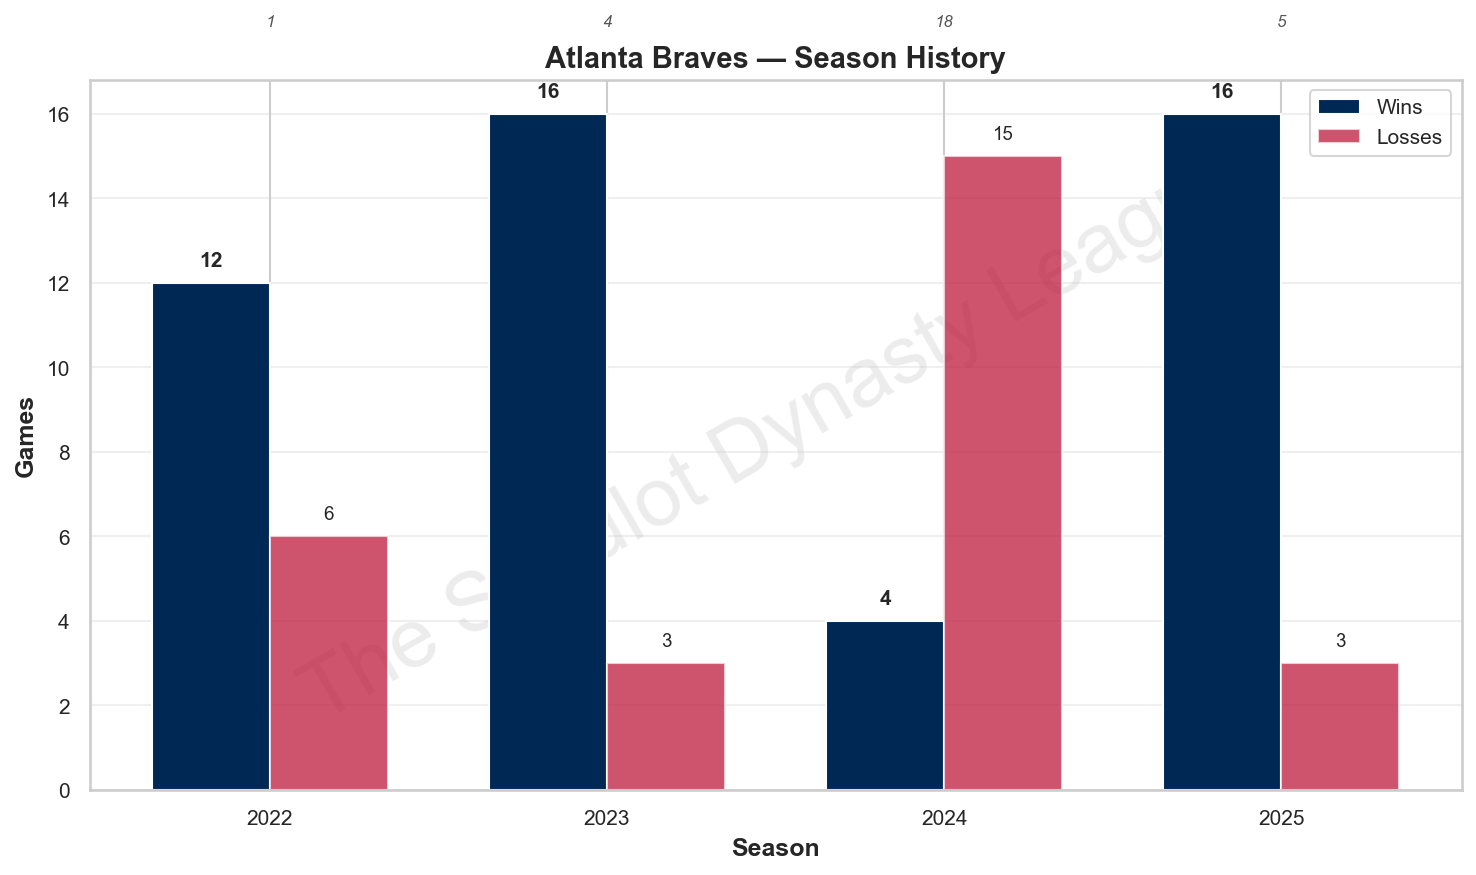
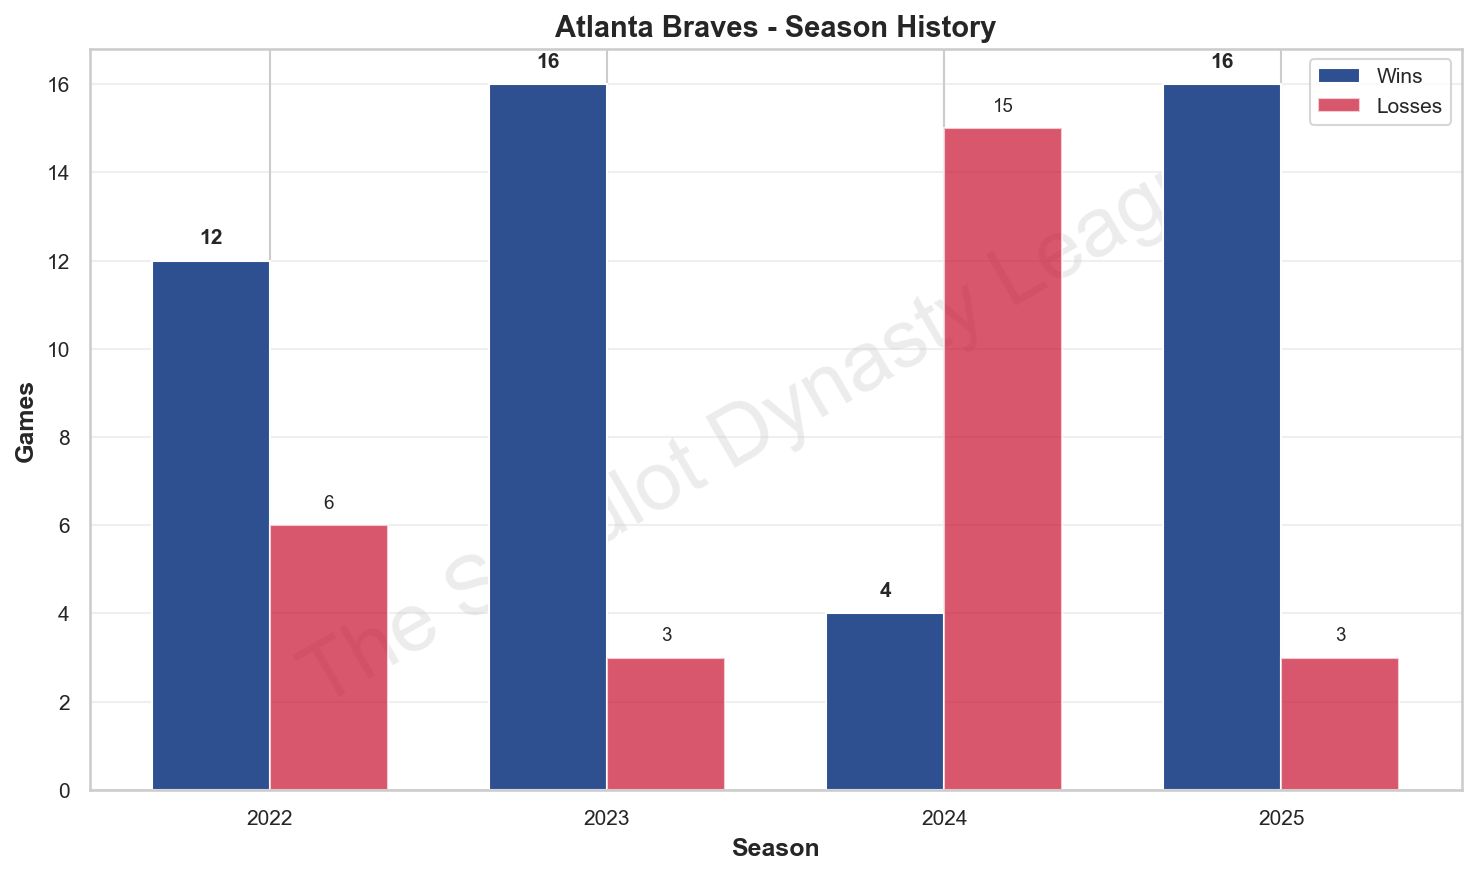
Fix HOU/SDP article nav CSS and og:image; remove playoff rank annotations from charts
- Add main.css link to HOU and SDP season preview articles (fixes unstyled nav)
- Update og:image for HOU and SDP from stadium panoramas to season history charts
- Regenerate all season_history charts with playoff finish rank numbers removed

diff --git a/season-previews/season_preview_2026_hou.html b/season-previews/season_preview_2026_hou.html
@@ -10,13 +10,14 @@
   <meta property="og:title"        content="2026 TSDL Season Preview: Houston Astros">
   <meta property="og:description"  content="The 2026 season preview for the Houston Astros. Roster breakdown, farm system analysis, and predictions for the year ahead.">
   <meta property="og:url"          content="https://lemonlyman86.github.io/sandlottribune/season-previews/season_preview_2026_hou.html">
-  <meta property="og:image"        content="https://lemonlyman86.github.io/sandlottribune/assets/images/Stadiums/hou_stadium_panorama.jpg">
+  <meta property="og:image"        content="https://lemonlyman86.github.io/sandlottribune/season-previews/charts/season_history_hou.png">
   <meta property="og:image:width"  content="1200">
   <meta property="og:image:height" content="630">
   <meta name="twitter:card"        content="summary_large_image">
   <meta name="twitter:title"       content="2026 TSDL Season Preview: Houston Astros">
   <meta name="twitter:description" content="The 2026 season preview for the Houston Astros. Roster breakdown, farm system analysis, and predictions for the year ahead.">
-  <meta name="twitter:image"       content="https://lemonlyman86.github.io/sandlottribune/assets/images/Stadiums/hou_stadium_panorama.jpg">
+  <meta name="twitter:image"       content="https://lemonlyman86.github.io/sandlottribune/season-previews/charts/season_history_hou.png">
+  <link rel="stylesheet" href="../assets/css/main.css">
   <style>
     /* ── Reset & Base ── */
     *, *::before, *::after { box-sizing: border-box; margin: 0; padding: 0; }

diff --git a/season-previews/season_preview_2026_sdp.html b/season-previews/season_preview_2026_sdp.html
@@ -10,13 +10,14 @@
   <meta property="og:title"        content="2026 TSDL Season Preview: San Diego Padres">
   <meta property="og:description"  content="The 2026 season preview for the San Diego Padres. Roster breakdown, farm system analysis, and predictions for the year ahead.">
   <meta property="og:url"          content="https://lemonlyman86.github.io/sandlottribune/season-previews/season_preview_2026_sdp.html">
-  <meta property="og:image"        content="https://lemonlyman86.github.io/sandlottribune/assets/images/Stadiums/sdp_stadium_long.jpg">
+  <meta property="og:image"        content="https://lemonlyman86.github.io/sandlottribune/season-previews/charts/season_history_sdp.png">
   <meta property="og:image:width"  content="1200">
   <meta property="og:image:height" content="630">
   <meta name="twitter:card"        content="summary_large_image">
   <meta name="twitter:title"       content="2026 TSDL Season Preview: San Diego Padres">
   <meta name="twitter:description" content="The 2026 season preview for the San Diego Padres. Roster breakdown, farm system analysis, and predictions for the year ahead.">
-  <meta name="twitter:image"       content="https://lemonlyman86.github.io/sandlottribune/assets/images/Stadiums/sdp_stadium_long.jpg">
+  <meta name="twitter:image"       content="https://lemonlyman86.github.io/sandlottribune/season-previews/charts/season_history_sdp.png">
+  <link rel="stylesheet" href="../assets/css/main.css">
   <style>
     /* ── Reset & Base ── */
     *, *::before, *::after { box-sizing: border-box; margin: 0; padding: 0; }
